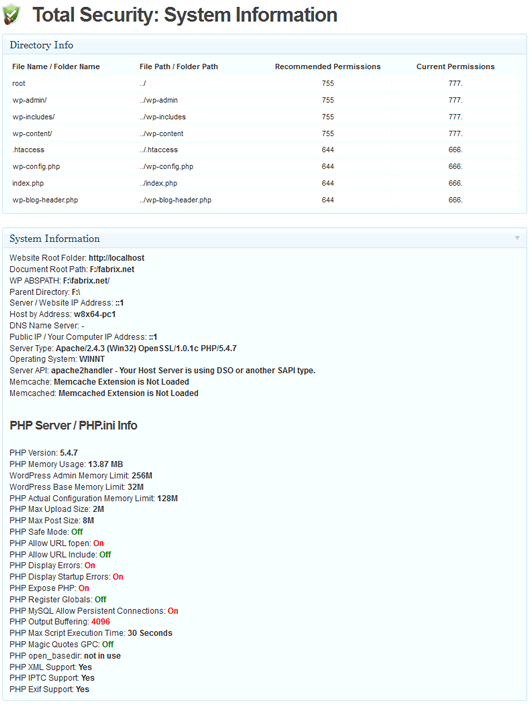
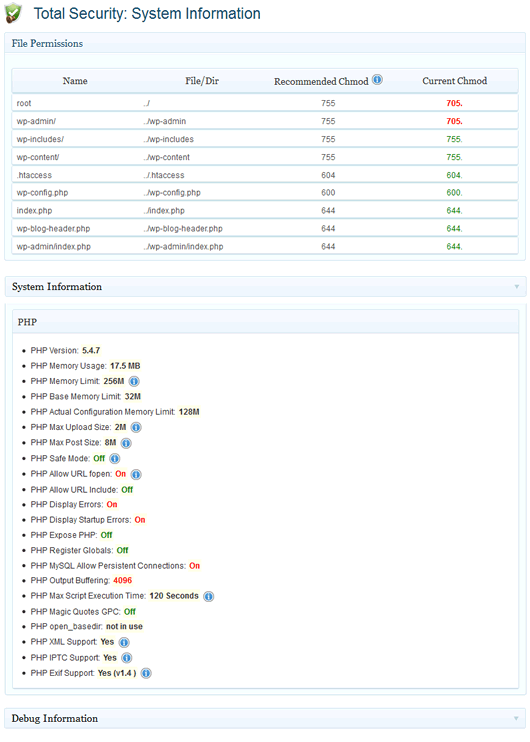
1.1 fix
git-svn-id: https://plugins.svn.wordpress.org/total-security/trunk@632757 b8457f37-d9ea-0310-8a92-e5e31aec5664

Changed region(s): [[0.0, 0.0, 0.9962, 0.9986], [0.966, 0.9674, 0.9962, 0.9986]]

diff --git a/admin/system_information.php b/admin/system_information.php
@@ -11,10 +11,17 @@ function fdx_check_perms($name,$path,$perm) {
     if ($current_perms == '.0.') { echo '-----'; } else { echo $current_perms; };
     echo '</td></tr></tbody>';
 	echo '</table>';
-
-
 }
 
+function fdx_url_method() {
+	if(function_exists('curl_init')) {
+		return 'curl';
+	} else if(ini_get('allow_url_fopen') && function_exists('stream_get_contents')) {
+		return 'fopen';
+	} else {
+		return 'fsockopen';
+	}
+}
 ?>
 <div class="wrap"><?php echo get_screen_icon('fdx-lock');?>
 <h2><?php echo FDX2_PLUGIN_NAME;?>: <?php _e('System Information', 'fdx-lang') ?></h2>
@@ -128,7 +135,7 @@ function fdx_check_perms($name,$path,$perm) {
 	$sql_mode = '<strong>'.__('Off', 'fdx-lang').'</strong>';
 	}}
 	echo $sql_mode;
-	echo '<a href="#" target="_blank" title="'.__('Information', 'fdx-lang').'"><img src="'.FDX2_PLUGIN_URL.'/images/info.png" width="16" height="16" border="0"  alt="'.__('Information', 'fdx-lang').'" style="vertical-align: middle; margin-left:5px" /></a></li>';
+	echo '<a href="http://fabrix.net/total-security/msys/#sql_mode" target="_blank" title="'.__('Information', 'fdx-lang').'"><img src="'.FDX2_PLUGIN_URL.'/images/info.png" width="16" height="16" border="0"  alt="'.__('Information', 'fdx-lang').'" style="vertical-align: middle; margin-left:5px" /></a></li>';
 	echo '<li>Browser Compression Supported: <strong>'.esc_html($_SERVER['HTTP_ACCEPT_ENCODING']).'</strong></li>';
 	?>
      </ul>
@@ -147,11 +154,11 @@ $post_max = ini_get('post_max_size')
   <ul class="fdxlist"><?php
 	echo '<li>PHP Version: <strong>'.PHP_VERSION.'</strong></li>';
 	echo '<li>PHP Memory Usage: <strong>'.round(memory_get_usage() / 1024 / 1024, 2) . ' MB</strong></li>';
-	echo '<li>PHP Memory Limit: <strong>'.$memory_limit.'</strong><a href="#" target="_blank" title="'.__('Information', 'fdx-lang').'"><img src="'.FDX2_PLUGIN_URL.'/images/info.png" width="16" height="16" border="0"  alt="'.__('Information', 'fdx-lang').'" style="vertical-align: middle; margin-left:5px" /></a></li>';
+	echo '<li>PHP Memory Limit: <strong>'.$memory_limit.'</strong><a href="http://fabrix.net/total-security/msys/#php_memory_limit" target="_blank" title="'.__('Information', 'fdx-lang').'"><img src="'.FDX2_PLUGIN_URL.'/images/info.png" width="16" height="16" border="0"  alt="'.__('Information', 'fdx-lang').'" style="vertical-align: middle; margin-left:5px" /></a></li>';
 	echo '<li>PHP Base Memory Limit: <strong>'.WP_MEMORY_LIMIT.'</strong></li>';
 	echo '<li>PHP Actual Configuration Memory Limit: <strong>'.get_cfg_var('memory_limit').'</strong></li>';
-	echo '<li>PHP Max Upload Size: <strong>'.$upload_max.'</strong><a href="#" target="_blank" title="'.__('Information', 'fdx-lang').'"><img src="'.FDX2_PLUGIN_URL.'/images/info.png" width="16" height="16" border="0"  alt="'.__('Information', 'fdx-lang').'" style="vertical-align: middle; margin-left:5px" /></a></li>';
-	echo '<li>PHP Max Post Size: <strong>'.$post_max.'</strong><a href="#" target="_blank" title="'.__('Information', 'fdx-lang').'"><img src="'.FDX2_PLUGIN_URL.'/images/info.png" width="16" height="16" border="0"  alt="'.__('Information', 'fdx-lang').'" style="vertical-align: middle; margin-left:5px" /></a></li>';
+	echo '<li>PHP Max Upload Size: <strong>'.$upload_max.'</strong><a href="http://fabrix.net/total-security/msys/#php_max_upload_size" target="_blank" title="'.__('Information', 'fdx-lang').'"><img src="'.FDX2_PLUGIN_URL.'/images/info.png" width="16" height="16" border="0"  alt="'.__('Information', 'fdx-lang').'" style="vertical-align: middle; margin-left:5px" /></a></li>';
+	echo '<li>PHP Max Post Size: <strong>'.$post_max.'</strong><a href="http://fabrix.net/total-security/msys/#php_max_post_size" target="_blank" title="'.__('Information', 'fdx-lang').'"><img src="'.FDX2_PLUGIN_URL.'/images/info.png" width="16" height="16" border="0"  alt="'.__('Information', 'fdx-lang').'" style="vertical-align: middle; margin-left:5px" /></a></li>';
 	echo '<li>PHP Safe Mode: ';
 	if (ini_get('safe_mode') == 1) {
 	$text = '<font color="red"><strong>'.__('On', 'fdx-lang').'</strong></font>';
@@ -160,7 +167,7 @@ $post_max = ini_get('post_max_size')
 	$text = '<font color="green"><strong>'.__('Off', 'fdx-lang').'</strong></font>';
 	echo $text;
 	}
-	echo '<a href="#" target="_blank" title="'.__('Information', 'fdx-lang').'"><img src="'.FDX2_PLUGIN_URL.'/images/info.png" width="16" height="16" border="0"  alt="'.__('Information', 'fdx-lang').'" style="vertical-align: middle; margin-left:5px" /></a></li><li>PHP Allow URL fopen: ';
+	echo '<a href="http://fabrix.net/total-security/msys/#php_safe_mode" target="_blank" title="'.__('Information', 'fdx-lang').'"><img src="'.FDX2_PLUGIN_URL.'/images/info.png" width="16" height="16" border="0"  alt="'.__('Information', 'fdx-lang').'" style="vertical-align: middle; margin-left:5px" /></a></li><li>PHP Allow URL fopen: ';
 	if (ini_get('allow_url_fopen') == 1) {
 	$text = '<font color="red"><strong>'.__('On', 'fdx-lang').'</strong></font>';
 	echo $text;
@@ -168,7 +175,7 @@ $post_max = ini_get('post_max_size')
 	$text = '<font color="green"><strong>'.__('Off', 'fdx-lang').'</strong></font>';
 	echo $text;
 	}
-	echo '<a href="#" target="_blank" title="'.__('Information', 'fdx-lang').'"><img src="'.FDX2_PLUGIN_URL.'/images/info.png" width="16" height="16" border="0"  alt="'.__('Information', 'fdx-lang').'" style="vertical-align: middle; margin-left:5px" /></a></li><li>PHP Allow URL Include: ';
+	echo '<a href="http://fabrix.net/total-security/msys/#php_allow_url_fopen" target="_blank" title="'.__('Information', 'fdx-lang').'"><img src="'.FDX2_PLUGIN_URL.'/images/info.png" width="16" height="16" border="0"  alt="'.__('Information', 'fdx-lang').'" style="vertical-align: middle; margin-left:5px" /></a></li><li>PHP Allow URL Include: ';
 	if (ini_get('allow_url_include') == 1) {
 	$text = '<font color="red"><strong>'.__('On', 'fdx-lang').'</strong></font>';
 	echo $text.'</li>';
@@ -224,7 +231,7 @@ $post_max = ini_get('post_max_size')
 	echo '<font color="green"><strong>'.$output_buffering.'</strong></font></li>';
 	}
 	echo '<li>PHP Max Script Execution Time: '; $max_execute = ini_get('max_execution_time');
-	echo '<strong>'.$max_execute.' Seconds</strong><a href="#" target="_blank" title="'.__('Information', 'fdx-lang').'"><img src="'.FDX2_PLUGIN_URL.'/images/info.png" width="16" height="16" border="0"  alt="'.__('Information', 'fdx-lang').'" style="vertical-align: middle; margin-left:5px" /></a></li>';
+	echo '<strong>'.$max_execute.' Seconds</strong><a href="http://fabrix.net/total-security/msys/#php_max_script_execute_time" target="_blank" title="'.__('Information', 'fdx-lang').'"><img src="'.FDX2_PLUGIN_URL.'/images/info.png" width="16" height="16" border="0"  alt="'.__('Information', 'fdx-lang').'" style="vertical-align: middle; margin-left:5px" /></a></li>';
 	echo '<li>PHP Magic Quotes GPC: ';
 	if (ini_get('magic_quotes_gpc') == 1) {
 	$text = '<font color="red"><strong>'.__('On', 'fdx-lang').'</strong></font>';
@@ -248,7 +255,7 @@ $post_max = ini_get('post_max_size')
 	$text = '<strong>'.__('No', 'fdx-lang').'</strong></font>';
 	echo $text;
 	}
-    echo '<a href="#" target="_blank" title="'.__('Information', 'fdx-lang').'"><img src="'.FDX2_PLUGIN_URL.'/images/info.png" width="16" height="16" border="0"  alt="'.__('Information', 'fdx-lang').'" style="vertical-align: middle; margin-left:5px" /></a></li>';
+    echo '<a href="http://fabrix.net/total-security/msys/#php_xml_support" target="_blank" title="'.__('Information', 'fdx-lang').'"><img src="'.FDX2_PLUGIN_URL.'/images/info.png" width="16" height="16" border="0"  alt="'.__('Information', 'fdx-lang').'" style="vertical-align: middle; margin-left:5px" /></a></li>';
 	echo '<li>PHP IPTC Support: ';
 	if (is_callable('iptcparse')) {
 	$text = '<strong>'.__('Yes', 'fdx-lang').'</strong></font>';
@@ -257,7 +264,7 @@ $post_max = ini_get('post_max_size')
 	$text = '<strong>'.__('No', 'fdx-lang').'</strong></font>';
 	echo $text;
 	}
-      echo '<a href="#" target="_blank" title="'.__('Information', 'fdx-lang').'"><img src="'.FDX2_PLUGIN_URL.'/images/info.png" width="16" height="16" border="0"  alt="'.__('Information', 'fdx-lang').'" style="vertical-align: middle; margin-left:5px" /></a></li>';
+      echo '<a href="http://fabrix.net/total-security/msys/#php_iptc_support" target="_blank" title="'.__('Information', 'fdx-lang').'"><img src="'.FDX2_PLUGIN_URL.'/images/info.png" width="16" height="16" border="0"  alt="'.__('Information', 'fdx-lang').'" style="vertical-align: middle; margin-left:5px" /></a></li>';
 	echo '<li>PHP Exif Support: ';
 	if (is_callable('exif_read_data')) {
 	$text = '<strong>'.__('Yes', 'fdx-lang').' (v' . substr(phpversion('exif'),0,4) . ')</strong></font>';
@@ -266,7 +273,7 @@ $post_max = ini_get('post_max_size')
 	$text = '<strong>'.__('No', 'fdx-lang').'</strong></font>';
 	echo $text;
     }
-     echo '<a href="#" target="_blank" title="'.__('Information', 'fdx-lang').'"><img src="'.FDX2_PLUGIN_URL.'/images/info.png" width="16" height="16" border="0"  alt="'.__('Information', 'fdx-lang').'" style="vertical-align: middle; margin-left:5px" /></a></li>';
+     echo '<a href="http://fabrix.net/total-security/msys/#php_exif_support" target="_blank" title="'.__('Information', 'fdx-lang').'"><img src="'.FDX2_PLUGIN_URL.'/images/info.png" width="16" height="16" border="0"  alt="'.__('Information', 'fdx-lang').'" style="vertical-align: middle; margin-left:5px" /></a></li>';
 
 	?>
 
@@ -276,6 +283,43 @@ $post_max = ini_get('post_max_size')
 
 </div>
 </div>
+
+
+<div class="postbox">
+<div class="handlediv" title="<?php _e('Click to toggle', 'fdx-lang') ?>"><br /></div><h3 class='hndle'><span><?php _e('Debug Information', 'fdx-lang'); ?></span></h3>
+<div class="inside">
+<p align="center"><?php _e('Debug information is used to provide help. You should include this information in your posts on support forum. ', 'fdx-lang') ?> </p>
+ <form name="test">
+<p align="center"><a class="button" href="javascript:selectcopy('test.select1')"><?php _e('Select All', 'fdx-lang') ?></a></p>
+ <div align="center">
+<textarea style="width:90%; height:200px;" name="select1">
+OS: <?php echo PHP_OS; ?>
+
+PHP: <?php echo phpversion(); ?>
+
+WP: <?php  global $wp_version; echo $wp_version; ?>
+
+Active Theme: <?php $theme = get_theme(get_current_theme()); echo $theme['Name'].' '.$theme['Version']; ?>
+
+URLOpen Method: <?php echo fdx_url_method(); ?>
+
+---------Plugins---------
+<?php
+foreach (get_plugins() as $key => $plugin) {
+    $isactive = "";
+    if (is_plugin_active($key)) {
+        $isactive = "(active)";
+    }
+    echo $plugin['Name'].' '.$plugin['Version'].' '.$isactive."\n";
+}
+?>
+
+</textarea>
+</div>
+   </form>
+ </div>
+</div>
+
 
 
 </div> <!-- /postbox-container -->

diff --git a/total-security.php b/total-security.php
@@ -4,7 +4,7 @@ Plugin Name: Total Security
 Plugin URI: http://fabrix.net/total-security/
 Description: Checks your WordPress installation and provides detailed reporting on discovered vulnerabilities, anything suspicious and how to fix them.
 Author: Fabrix DoRoMo
-Version: 1.0
+Version: 1.1
 Author URI: http://fabrix.net/
 */
 /*
@@ -24,7 +24,7 @@ along with this program.  If not, see <http://www.gnu.org/licenses/>.
 
 /*********************************************************************************/
 define('FDX2_PLUGIN_NAME', 'Total Security' );
-define('FDX2_PLUGIN_VERSION', '1.0' );
+define('FDX2_PLUGIN_VERSION', '1.1' );
 define('FDX2_PLUGIN_URL', plugin_dir_url(__FILE__));
 
 define('FDX2_WPPAGE', 'http://wordpress.org/extend/plugins/total-security/');
@@ -50,7 +50,7 @@ define('FDX_DIC', plugin_dir_path(__FILE__) . 'libs/brute-force-dictionary.txt')
 include 'config.php'; //if there is possibility to change parameters
 require_once 'admin/vulnerability_scan_inc.php';
 
-/* I18n (http://codex.wordpress.org/I18n_for_WordPress_Developers)
+/* I18n - http://codex.wordpress.org/I18n_for_WordPress_Developers
 *------------------------------------------------------------*/
 $currentLocale = get_locale();
 			if(!empty($currentLocale)) {

diff --git a/admin/_footer_js.php b/admin/_footer_js.php
@@ -5,7 +5,17 @@ var left = (screen.width/2)-(w/2);
 var top = (screen.height/2)-(h/2);
 var targetWin = window.open (pageURL, title, 'toolbar=no, location=no, directories=no, status=no, menubar=no, scrollbars='+scrol+', resizable=no, copyhistory=no, width='+w+', height='+h+', top='+top+', left='+left);
 }
+// selec all
+function selectcopy(fieldid){
+	var field=document.getElementById(fieldid) || eval('document.'+fieldid)
+	field.select()
+	if (field.createTextRange){ //if browser supports built in copy and paste (IE only at the moment)
+		field.createTextRange().execCommand("Copy")
+		alert("Value copied to clipboard!")
+	}
+}
 /*]]>*/
 </script>
-<script type="text/javascript">SyntaxHighlighter.all();</script> 
+<script type="text/javascript">SyntaxHighlighter.all();</script>
 <script type="text/javascript" src="<?php echo admin_url(); ?>load-scripts.php?c=0&amp;load=jquery-ui-core,jquery-ui-widget,jquery-ui-mouse,jquery-ui-sortable,postbox,post"></script>
+

diff --git a/admin/vulnerability_scan.php b/admin/vulnerability_scan.php
@@ -41,7 +41,7 @@
                   <td class="fdx-status">' . self::status($details['status']) . '</td>
 
                   <td class="fdx-details">' . $details['msg'] . '</td>
-                  <td class="fdx-status"><a href="http://fabrix.net/total-security/wpss/#' . $test_name . '" class="button" target="_blank" title="'.__('Details, tips &amp; help', 'fdx-lang').'"><strong>?</strong></a>&nbsp;</td>
+                  <td class="fdx-status"><a href="http://fabrix.net/total-security/mscan/#' . $test_name . '" class="button" target="_blank" title="'.__('Details, tips &amp; help', 'fdx-lang').'"><strong>?</strong></a>&nbsp;</td>
                 </tr>';
         } // foreach ($tests)
       } else { // no test results
